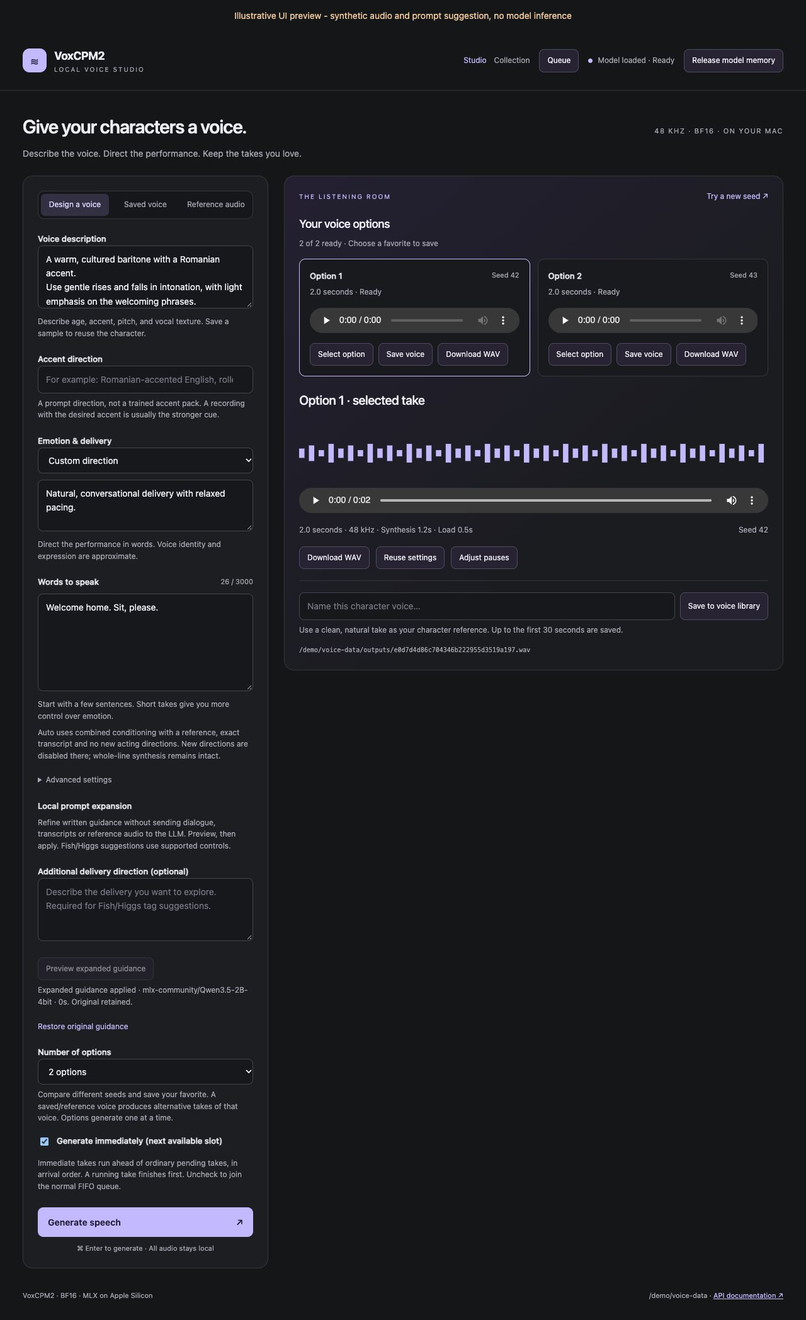
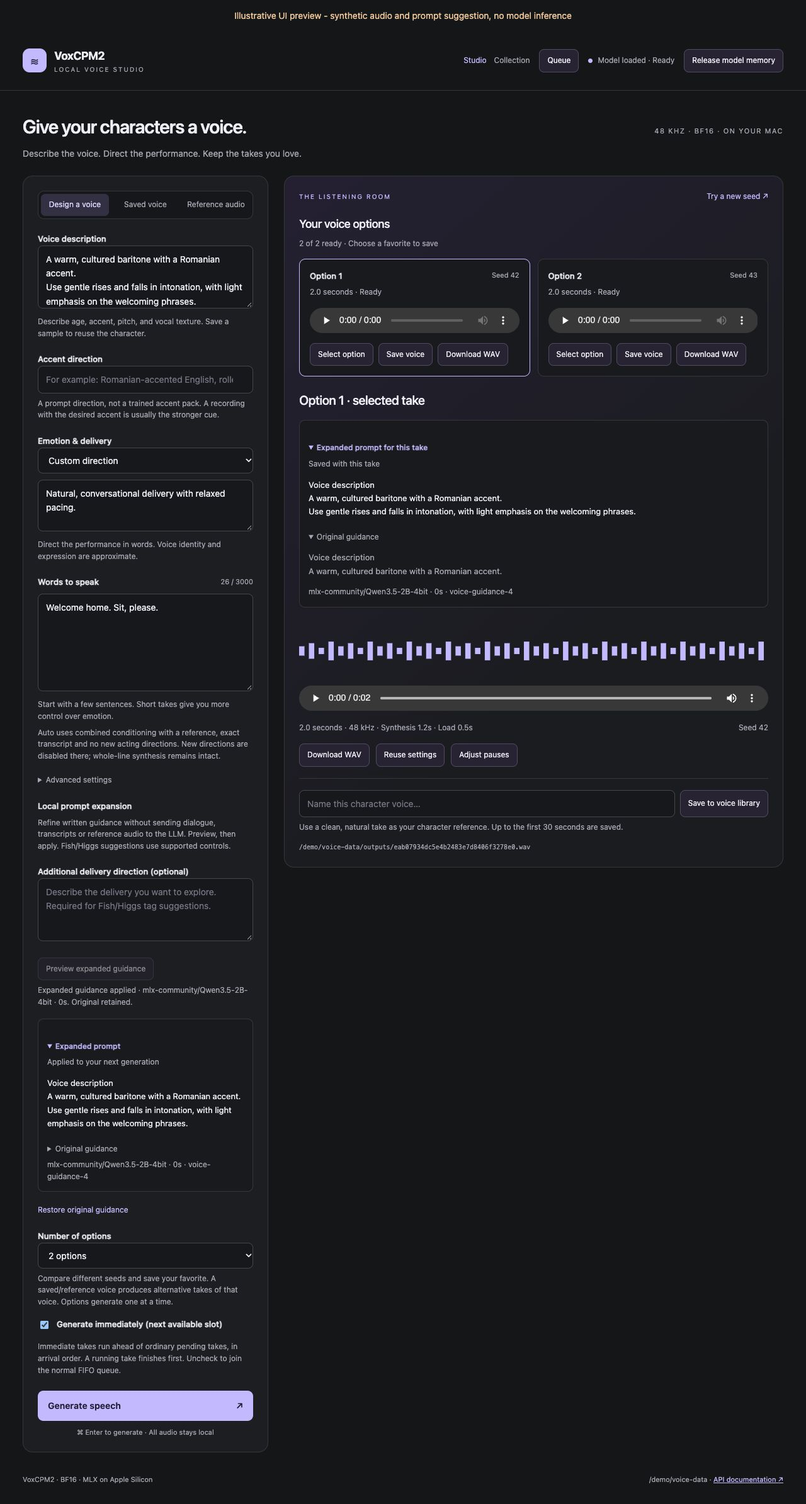
Keep expanded voice guidance visible in the form and saved takes

diff --git a/ui/index.html b/ui/index.html
@@ -22,6 +22,7 @@ html[data-page="collection"] #cards{max-height:none;grid-template-columns:repeat
 .queue-entry-content{min-width:0;overflow-wrap:anywhere}
 .queue-actions{margin:0;flex-direction:column;align-items:stretch;flex-wrap:nowrap}
 .queue-actions .secondary{width:100%;text-align:center;white-space:nowrap}
+.expansion-details{margin-top:16px;padding:14px;border:1px solid var(--line);border-radius:9px;background:#191a1d}.expansion-details>summary{cursor:pointer;color:var(--accent);font-weight:550}.expanded-guidance{white-space:pre-wrap;overflow-wrap:anywhere;font-size:13px;line-height:1.65}.expansion-content details{font-size:12px;color:var(--muted)}
 .candidate-grid{display:grid;grid-template-columns:repeat(auto-fit,minmax(240px,1fr));gap:12px;margin:15px 0 22px}.candidate-grid .card[data-selected=true]{border-color:var(--accent)}#candidate-results{margin-top:20px}#candidate-results h2{font-size:18px}#candidate-summary{margin-bottom:10px}
 @media(max-width:720px){.header-links{display:flex}.top-actions{flex-wrap:wrap}.queue-dialog{padding:18px}html[data-page="collection"] #cards{grid-template-columns:1fr}}
 </style>
@@ -40,11 +41,11 @@ html[data-page="collection"] #cards{max-height:none;grid-template-columns:repeat
 <div class="field"><label for="emotion-preset">Emotion & delivery</label><select id="emotion-preset"><option value="natural">Natural</option><option value="joy">Joy & excitement</option><option value="sadness">Sadness</option><option value="anger">Anger</option><option value="fear">Fear</option><option value="relief">Relief</option><option value="sarcasm">Dry sarcasm</option><option value="whisper">Intimate whisper</option><option value="custom">Custom direction</option></select><textarea class="field" id="emotion" aria-label="Performance direction" maxlength="1000" style="min-height:82px;margin-top:10px" placeholder="Quiet disappointment, speaking slowly, trying to hold back tears.">Natural, conversational delivery with relaxed pacing.</textarea><p class="hint" id="emotion-hint">Direct the performance in words. Delivery controls depend on the selected model and voice source.</p></div>
 <div class="field"><div class="label"><label for="text">Words to speak</label><span class="tiny" id="count">0 / 3000</span></div><textarea id="text" maxlength="3000" style="min-height:155px" required placeholder="Write a line for your character…">I thought you'd forgotten. But here you are, right when I needed you.</textarea><p class="hint">Start with a few sentences. Short takes give you more control over emotion.</p></div>
 <p id="performance-guidance" class="hint"></p><div class="field" id="backend-presets"></div><div class="field" id="performance-controls"></div><div class="field" id="backend-settings"></div><div class="field" id="index-emotion" hidden><label for="index-emotion-mode">Emotion source</label><select id="index-emotion-mode"><option value="follow">Follow recording</option><option value="audio">Another emotion recording</option><option value="vector">Named emotion mixture</option></select><p class="hint">Speaker identity still comes from your original voice reference. A separate same-speaker recording at blend 0.3–0.5 is an experimental starting point.</p><div id="index-audio-options" hidden><label for="emotion-reference">Emotion recording (optional)</label><input type="file" id="emotion-reference" accept="audio/*"><input type="hidden" id="emotion-reference-id"><p class="hint" id="emotion-reference-info"></p><button type="button" class="secondary" id="clear-emotion-reference">Clear emotion recording</button></div><div id="index-vector-options" hidden><label>Emotion mixture</label><div id="emotion-vector-fields"></div><p class="hint" id="emotion-vector-sum">Total 0.00 / 1</p><input type="hidden" id="emotion-vector"><p class="hint">Eight values: happy, angry, sad, afraid, disgusted, melancholic, surprised, calm. Each 0–1; total at most 1. Choose a recording or mixture.</p></div></div><p class="hint" id="inline-hint" hidden></p><div id="rendered-preview-field" hidden><label for="rendered-preview">Text sent to this model</label><pre id="rendered-preview" class="hint" style="white-space:pre-wrap;overflow-wrap:anywhere"></pre></div><details><summary>Advanced settings</summary><div class="field" id="pacing-settings"></div><button type="button" class="secondary" id="apply-recommended">Apply recommended defaults</button><p class="hint">Reset performance controls for this model while keeping your voice, dialogue and character description.</p><div class="two"><div><label for="seed">Seed</label><input type="number" id="seed" value="42" min="0" max="4294967295"></div><div id="steps-field"><label for="steps">Quality steps</label><input type="number" id="steps" value="10" min="1" max="30"></div></div><div class="two"><div id="guidance-field"><label for="guidance">Prompt guidance</label><input type="number" id="guidance" value="2" min="1" max="5" step=".1"></div><div id="max-tokens-field"><label for="max-tokens">Audio limit</label><select id="max-tokens"><option value="160">160 tokens · short test</option><option value="500">500 audio tokens</option><option value="1000" selected>1000 audio tokens</option><option value="2000">2000 audio tokens</option></select></div></div><p class="hint" id="settings-hint">10 steps is the quality default. The audio limit is a safety cap, not a requested duration. A matching seed alone does not lock a voice.</p><div class="two"><div id="temperature-field" hidden><label for="temperature">Temperature</label><input type="number" id="temperature" min="0" max="2" step=".05" value=".9"></div><div id="language-field" hidden><label for="language">Language</label><select id="language"><option>auto</option></select></div></div><div class="field"><label for="output-dir">Output folder (optional)</label><input id="output-dir" placeholder="Default output folder"><p class="hint">An absolute folder on this Mac. Leave blank for the configured default.</p></div></details>
-<section class="field" id="prompt-expansion-tools"><label>Local prompt expansion</label><p class="hint" id="prompt-expansion-hint">Start with WITH_LLM=1 to enable written voice guidance previews.</p><div class="field" id="expansion-guidance-field" hidden><label for="expansion-guidance">Additional delivery direction (optional)</label><textarea id="expansion-guidance" maxlength="1500" placeholder="Describe the delivery you want to explore. Required for Fish/Higgs tag suggestions."></textarea></div><button type="button" class="secondary field" id="expand-guidance" disabled>Preview expanded guidance</button><p class="hint" id="expansion-applied" hidden></p><button type="button" class="plain field" id="restore-guidance" hidden>Restore original guidance</button></section>
+<section class="field" id="prompt-expansion-tools"><label>Local prompt expansion</label><p class="hint" id="prompt-expansion-hint">Start with WITH_LLM=1 to enable written voice guidance previews.</p><div class="field" id="expansion-guidance-field" hidden><label for="expansion-guidance">Additional delivery direction (optional)</label><textarea id="expansion-guidance" maxlength="1500" placeholder="Describe the delivery you want to explore. Required for Fish/Higgs tag suggestions."></textarea></div><button type="button" class="secondary field" id="expand-guidance" disabled>Preview expanded guidance</button><p class="hint" id="expansion-applied" hidden></p><details id="applied-expansion-details" class="expansion-details" hidden><summary>Expanded prompt</summary><div class="expansion-content"></div></details><button type="button" class="plain field" id="restore-guidance" hidden>Restore original guidance</button></section>
 <div class="field"><label for="candidate-count">Number of options</label><select id="candidate-count"><option value="1">1 option</option><option value="2" selected>2 options</option><option value="3">3 options</option><option value="4">4 options</option><option value="5">5 options</option></select><p class="hint">Compare different seeds and save your favorite. A saved/reference voice produces alternative takes of that voice. Options generate one at a time.</p></div>
 <label style="display:flex;align-items:start;gap:10px;margin:16px 0"><input id="generate-immediately" type="checkbox" checked style="width:auto;margin-top:5px">Generate immediately (next available slot)</label><p class="hint">Immediate takes run ahead of ordinary pending takes, in arrival order. A running take finishes first. Uncheck to join the normal FIFO queue.</p>
 <button class="primary" id="generate" type="submit"><span>Generate speech</span><span aria-hidden="true">↗</span></button><p class="shortcut">⌘ Enter to generate · All audio stays local</p><p class="error" id="error" role="alert" hidden></p>
-</form><div><section class="panel output" aria-label="Generated audio"><div class="output-top"><span class="eyebrow">The listening room</span><button type="button" class="plain" id="new-seed">Try a new seed ↗</button></div><section id="candidate-results" hidden aria-labelledby="candidate-title"><h2 id="candidate-title">Your voice options</h2><p id="candidate-summary" class="hint" role="status"></p><div id="candidate-cards" class="candidate-grid"></div></section><div class="empty" id="empty"><div class="symbol" aria-hidden="true">▂▅▃▇▂▆▃</div><h2>Your next voice starts here.</h2><p>Generate a take, listen to the performance, then save the voice for your next scene.</p></div><div class="working" id="working" hidden><div class="spinner"></div><strong id="stage">Generating speech</strong><p id="elapsed">Starting…</p><p>The first take also loads the model from the SSD.</p></div><div id="result" hidden><h2 id="result-title">Your latest take</h2><p class="hint" id="direction-summary" hidden></p><canvas id="waveform" aria-label="Waveform of generated speech" role="img"></canvas><audio id="player" controls preload="metadata"></audio><div class="result-meta"><span id="metrics"></span><span id="result-seed"></span></div><p class="notice" id="truncated" hidden>The audio reached its length limit. Try a shorter passage or raise the audio limit.</p><div class="result-tools"><a id="download" class="secondary" download>Download WAV</a><button type="button" class="secondary" id="reuse">Reuse settings</button><button type="button" class="secondary" id="adjust-pauses">Adjust pauses</button></div><div class="save-row"><label for="voice-name" class="sr-only">Name this voice</label><input id="voice-name" maxlength="100" placeholder="Name this character voice…"><button type="button" class="secondary" id="save-voice">Save to voice library</button></div><p class="hint" id="save-hint">Use a clean, natural take as your character reference. Up to the first 30 seconds are saved.</p><p id="path" class="path"></p></div></section></div></div>
+</form><div><section class="panel output" aria-label="Generated audio"><div class="output-top"><span class="eyebrow">The listening room</span><button type="button" class="plain" id="new-seed">Try a new seed ↗</button></div><section id="candidate-results" hidden aria-labelledby="candidate-title"><h2 id="candidate-title">Your voice options</h2><p id="candidate-summary" class="hint" role="status"></p><div id="candidate-cards" class="candidate-grid"></div></section><div class="empty" id="empty"><div class="symbol" aria-hidden="true">▂▅▃▇▂▆▃</div><h2>Your next voice starts here.</h2><p>Generate a take, listen to the performance, then save the voice for your next scene.</p></div><div class="working" id="working" hidden><div class="spinner"></div><strong id="stage">Generating speech</strong><p id="elapsed">Starting…</p><p>The first take also loads the model from the SSD.</p></div><div id="result" hidden><h2 id="result-title">Your latest take</h2><p class="hint" id="direction-summary" hidden></p><details id="result-expansion-details" class="expansion-details" hidden><summary>Expanded prompt for this take</summary><div class="expansion-content"></div></details><canvas id="waveform" aria-label="Waveform of generated speech" role="img"></canvas><audio id="player" controls preload="metadata"></audio><div class="result-meta"><span id="metrics"></span><span id="result-seed"></span></div><p class="notice" id="truncated" hidden>The audio reached its length limit. Try a shorter passage or raise the audio limit.</p><div class="result-tools"><a id="download" class="secondary" download>Download WAV</a><button type="button" class="secondary" id="reuse">Reuse settings</button><button type="button" class="secondary" id="adjust-pauses">Adjust pauses</button></div><div class="save-row"><label for="voice-name" class="sr-only">Name this voice</label><input id="voice-name" maxlength="100" placeholder="Name this character voice…"><button type="button" class="secondary" id="save-voice">Save to voice library</button></div><p class="hint" id="save-hint">Use a clean, natural take as your character reference. Up to the first 30 seconds are saved.</p><p id="path" class="path"></p></div></section></div></div>
 <section class="panel library" id="voice-catalog"><div class="section-top"><h2>Your collection</h2><button type="button" class="secondary" id="upload-voice">Upload voice</button><div class="tabs" role="tablist" aria-label="Collection"><button type="button" role="tab" data-collection="history" aria-selected="true">History</button><button type="button" role="tab" data-collection="voices" aria-selected="false">Voice library</button></div></div><label class="sr-only" for="search">Search your collection</label><input class="search" id="search" type="search" placeholder="Search text, voice descriptions, or emotions…"><div class="library-filters" id="voice-filters" hidden><div><label for="tag-filter">Filter by tag</label><select id="tag-filter"><option value="">All tags</option></select></div><div><label for="voice-sort">Sort voices</label><select id="voice-sort"><option value="newest">Newest first</option><option value="updated">Recently edited</option><option value="name">Name A–Z</option></select></div></div><div class="field" style="margin:0 0 12px"><label for="page-size">Results per page</label><select id="page-size"><option>12</option><option selected>24</option><option>48</option><option>100</option></select></div><p class="catalog-count" id="catalog-count" hidden></p><p class="voice-notice" id="voice-notice" role="status" hidden></p><div id="cards" class="cards"></div><div class="pagination" id="voice-pagination" hidden><button type="button" class="secondary" id="voice-prev">Previous</button><span class="tiny" id="voice-page-label"></span><button type="button" class="secondary" id="voice-next">Next</button></div><p class="hint" id="collection-empty">Your generated takes will appear here.</p></section></main>
 <dialog id="queue-dialog" class="voice-editor queue-dialog" aria-labelledby="queue-title"><div class="section-top"><h2 id="queue-title">Generation queue</h2><div class="dialog-actions" style="margin:0"><button type="button" class="secondary" id="queue-clear">Clear pending</button><button type="button" class="secondary" id="close-queue" aria-label="Close queue">Close</button></div></div><p class="hint">Only the startup backend executes. Other backends wait until selected at startup. Removing pending takes preserves completed History and never cancels running speech.</p><div class="two"><div><label for="queue-status">Show</label><select id="queue-status"><option value="pending">Pending and running</option><option value="error">Failed</option><option value="done">Completed</option><option value="all">All entries</option></select></div><div><label for="queue-size">Entries per page</label><select id="queue-size"><option>12</option><option selected>24</option><option>100</option></select></div></div><p id="queue-count" class="hint" role="status"></p><div id="queue-entries" class="cards"></div><div class="pagination"><button type="button" class="secondary" id="queue-prev">Previous</button><span id="queue-page" class="tiny"></span><button type="button" class="secondary" id="queue-next">Next</button></div><p class="error" id="queue-error" role="alert" hidden></p></dialog>
 <dialog id="expansion-preview" class="voice-editor" aria-labelledby="expansion-title"><h2 id="expansion-title">Expanded voice guidance</h2><p class="hint">Review the suggestion before applying. The LLM does not receive dialogue, transcripts or reference audio. Accent/identity and delivery still require listening.</p><h3>Original guidance</h3><pre id="expansion-original" class="hint" style="white-space:pre-wrap;overflow-wrap:anywhere"></pre><h3>Suggested guidance / controls</h3><pre id="expansion-updates" class="hint" style="white-space:pre-wrap;overflow-wrap:anywhere"></pre><p id="expansion-model" class="hint"></p><div class="dialog-actions"><button type="button" class="secondary" id="cancel-expansion">Keep original</button><button type="button" class="primary" id="apply-expansion">Apply guidance</button></div></dialog>

diff --git a/ui/app.js b/ui/app.js
@@ -24,6 +24,7 @@ function updatePromptExpansion(){
  $('expand-guidance').textContent=enhancing?'Expanding guidance…':'Preview expanded guidance';
  $('prompt-expansion-hint').textContent=!enabled?'Disabled. Start with make serve WITH_LLM=1 to enable local guidance previews.':!supported?'This mode follows recorded performance or has no written instruction path. Choose a supported design/preset or flexible Vox reference mode.':'Refine written guidance without sending dialogue, transcripts or reference audio to the LLM. Preview, then apply. Fish/Higgs suggestions use supported controls.';
  $('expansion-applied').hidden=!appliedExpansion;$('restore-guidance').hidden=!appliedExpansion;
+ renderExpansion(appliedExpansion,'applied-expansion-details','Applied to your next generation');
  if(appliedExpansion)$('expansion-applied').textContent='Expanded guidance applied · '+appliedExpansion.llm.model+' · '+appliedExpansion.llm.seconds+'s. Original retained.';
 }
 function applyGuidanceValues(values){
@@ -40,6 +41,16 @@ function guidancePreview(values){
   if(key==='higgs')return Object.entries(value).filter(([,v])=>v).map(([name,v])=>name+': '+v).join('\n')||'No delivery control';
   return (key==='description'?'Voice description':'Delivery direction')+'\n'+value;
  }).join('\n\n');
+}
+function renderExpansion(record,id,caption){
+ const panel=$(id);panel.hidden=!record;
+ if(!record){delete panel.dataset.receipt;panel.querySelector('.expansion-content').replaceChildren();return}
+ if(panel.dataset.receipt===record.id)return;
+ panel.dataset.receipt=record.id;panel.open=true;
+ const content=panel.querySelector('.expansion-content'),original=el('details'),originalText=el('p',guidancePreview(record.original),'expanded-guidance');
+ original.append(el('summary','Original guidance'),originalText);
+ content.replaceChildren(el('p',caption,'hint'),el('p',guidancePreview(record.updates),'expanded-guidance'),original,
+  el('p',`${record.llm.model} · ${record.llm.seconds}s · ${record.llm.policy_version}`,'hint'));
 }
 $('expand-guidance').onclick=async()=>{
  if(enhancing)return;enhancing=true;controls();$('error').hidden=true;
@@ -235,7 +246,7 @@ $('search').oninput = () => {
   searchTimer=setTimeout(()=>loadCollection().catch(exc=>error(exc.message)),250);
 };
 function waveform(peaks){const canvas=$('waveform'),ratio=devicePixelRatio||1;canvas.width=canvas.clientWidth*ratio;canvas.height=110*ratio;const c=canvas.getContext('2d');c.clearRect(0,0,canvas.width,canvas.height);c.fillStyle='#c3b9ff';if(!peaks?.length)return;const step=canvas.width/peaks.length;peaks.forEach((peak,i)=>{const h=Math.max(2*ratio,peak*canvas.height*.9);c.fillRect(i*step,(canvas.height-h)/2,Math.max(1,step*.55),h)})}
-function showResult(row){if(collectionPage){location.href='/?artifact='+encodeURIComponent(row.id);return}latest=row;for(const [id,card] of candidateCards)card.element.dataset.selected=String(id===row.id);if(currentCandidates&&row.candidate_batch_id!==currentCandidates.id)$('candidate-results').hidden=true;$('result-title').textContent=row.candidate_index?'Option '+row.candidate_index+' · selected take':'Your latest take';const details=[row.preset_voice?'Preset '+row.preset_voice:'',row.clone_mode==='combined'?'Combined identity and recorded performance':row.clone_mode==='continuation'?'Continued reference performance':'',row.accent?'Accent direction: '+row.accent:'',row.steering_emotion?`Experimental ${row.steering_emotion} steering · ${row.steering_strength}`:''].filter(Boolean);$('direction-summary').textContent=details.join(' · ');$('direction-summary').hidden=!details.length;$('empty').hidden=true;$('working').hidden=true;$('result').hidden=false;$('player').src=row.audio_url;$('download').href=row.audio_url+'?download=true';$('metrics').textContent=`${row.duration.toFixed(1)} seconds · ${row.sample_rate/1000} kHz · ${row.transformation?`Pause edit ${row.transformation.processing_seconds}s · Original ${row.timing_scope?'process total':'synthesis'}`:row.timing_scope?'Total process':'Synthesis'} ${row.generation_seconds}s${row.cold_load&&Number.isFinite(row.load_seconds)?` · Load ${row.load_seconds}s`:``}`;$('result-seed').textContent=`Seed ${row.seed}`;$('path').textContent=row.path;$('truncated').hidden=!row.possibly_truncated;$('save-hint').textContent='Use a clean, natural take as your character reference. Up to the first 30 seconds are saved.';waveform(row.waveform)}
+function showResult(row){if(collectionPage){location.href='/?artifact='+encodeURIComponent(row.id);return}latest=row;renderExpansion(row.prompt_expansion,'result-expansion-details','Saved with this take');for(const [id,card] of candidateCards)card.element.dataset.selected=String(id===row.id);if(currentCandidates&&row.candidate_batch_id!==currentCandidates.id)$('candidate-results').hidden=true;$('result-title').textContent=row.candidate_index?'Option '+row.candidate_index+' · selected take':'Your latest take';const details=[row.preset_voice?'Preset '+row.preset_voice:'',row.clone_mode==='combined'?'Combined identity and recorded performance':row.clone_mode==='continuation'?'Continued reference performance':'',row.accent?'Accent direction: '+row.accent:'',row.steering_emotion?`Experimental ${row.steering_emotion} steering · ${row.steering_strength}`:''].filter(Boolean);$('direction-summary').textContent=details.join(' · ');$('direction-summary').hidden=!details.length;$('empty').hidden=true;$('working').hidden=true;$('result').hidden=false;$('player').src=row.audio_url;$('download').href=row.audio_url+'?download=true';$('metrics').textContent=`${row.duration.toFixed(1)} seconds · ${row.sample_rate/1000} kHz · ${row.transformation?`Pause edit ${row.transformation.processing_seconds}s · Original ${row.timing_scope?'process total':'synthesis'}`:row.timing_scope?'Total process':'Synthesis'} ${row.generation_seconds}s${row.cold_load&&Number.isFinite(row.load_seconds)?` · Load ${row.load_seconds}s`:``}`;$('result-seed').textContent=`Seed ${row.seed}`;$('path').textContent=row.path;$('truncated').hidden=!row.possibly_truncated;$('save-hint').textContent='Use a clean, natural take as your character reference. Up to the first 30 seconds are saved.';waveform(row.waveform)}
 let pauseSource=null,pauseSpans=[],pausePreviewEnd=null,pausePreviewTimer=null,pausePendingKey=null,pauseSaving=false;
 function pauseError(message){$('pause-error').textContent=message;$('pause-error').hidden=false}
 function renderPauseSpans(){
@@ -466,7 +477,7 @@ $('voice-prev').onclick = () => {catalogOffset = Math.max(0, catalogOffset - pag
 $('voice-next').onclick = () => {catalogOffset += pageSize; loadCollection().catch(exc => error(exc.message));};
 $('browse-voices').onclick=()=>{location.href='/collection?tab=voices'};
 $('page-size').onchange=()=>{pageSize=Number($('page-size').value);catalogOffset=0;loadCollection().catch(exc=>error(exc.message))};
-(async()=>{try{caps=await api('/api/capabilities');storageKey=caps.service;document.title=caps.name+' Voice Studio';$('brand-name').textContent=caps.name;$('model-badge').textContent=`${caps.sample_rate/1000} kHz · ${caps.quantization} · On your Mac`;$('model-footer').textContent=`${caps.name} · ${caps.quantization} · ${caps.limits.runtime||'MLX'} on Apple Silicon`;$('storage-footer').textContent=caps.storage;$('output-dir').placeholder=caps.output_dir;$('language').replaceChildren(...caps.languages.map(x=>new Option(x,x)));$('preset-voice').replaceChildren(...caps.presets.map(x=>new Option(`${x.name} · ${x.language}`,x.id)));for(const emotion of caps.extensions?.emotion_steering?.emotions||[])$('steering-emotion').append(new Option(emotion[0].toUpperCase()+emotion.slice(1),emotion));$('settings-hint').textContent=(caps.limits.max_tokens_fixed?'This upstream Chatterbox API uses a fixed 1000-token ceiling. ':caps.backend==='moss'?'The audio-frame ceiling can be raised by the upstream text-derived minimum. ':'The audio token limit is a safety cap. Reaching it can cut a take short. ')+(caps.limits.memory_note||'A matching seed alone does not lock a voice.');const notice=caps.models[caps.backend];if(notice?.notice){$('license-text').textContent=notice.notice;$('license-link').href=notice.license_url;$('license-notice').hidden=false}buildBackendSettings();buildPerformanceControls();updateCapabilities();await refresh();const saved=JSON.parse(localStorage.getItem(storageKey+'-form')||'null');if(saved)restore(saved);else setMode(caps.modes.design.available===false?'upload':'design');await health();await openPageSelection();const batch=localStorage.getItem(storageKey+'-candidates'),job=localStorage.getItem(storageKey+'-job');if(!watching&&!collectionPage){if(batch)watchCandidates(batch);else if(job)watch(job)}}catch(exc){error(exc.message)}setInterval(health,5000)})();
+(async()=>{try{caps=await api('/api/capabilities');storageKey=caps.service;document.title=caps.name+' Voice Studio';$('brand-name').textContent=caps.name;$('model-badge').textContent=`${caps.sample_rate/1000} kHz · ${caps.quantization} · On your Mac`;$('model-footer').textContent=`${caps.name} · ${caps.quantization} · ${caps.limits.runtime||'MLX'} on Apple Silicon`;$('storage-footer').textContent=caps.storage;$('output-dir').placeholder=caps.output_dir;$('language').replaceChildren(...caps.languages.map(x=>new Option(x,x)));$('preset-voice').replaceChildren(...caps.presets.map(x=>new Option(`${x.name} · ${x.language}`,x.id)));for(const emotion of caps.extensions?.emotion_steering?.emotions||[])$('steering-emotion').append(new Option(emotion[0].toUpperCase()+emotion.slice(1),emotion));$('settings-hint').textContent=(caps.limits.max_tokens_fixed?'This upstream Chatterbox API uses a fixed 1000-token ceiling. ':caps.backend==='moss'?'The audio-frame ceiling can be raised by the upstream text-derived minimum. ':'The audio token limit is a safety cap. Reaching it can cut a take short. ')+(caps.limits.memory_note||'A matching seed alone does not lock a voice.');const notice=caps.models[caps.backend];if(notice?.notice){$('license-text').textContent=notice.notice;$('license-link').href=notice.license_url;$('license-notice').hidden=false}buildBackendSettings();buildPerformanceControls();updateCapabilities();await refresh();const saved=JSON.parse(localStorage.getItem(storageKey+'-form')||'null');if(saved)restore(saved);else setMode(caps.modes.design.available===false?'upload':'design');await health();const pageSelected=await openPageSelection();const batch=localStorage.getItem(storageKey+'-candidates'),job=localStorage.getItem(storageKey+'-job');if(!watching&&!collectionPage&&!pageSelected){if(batch)watchCandidates(batch);else if(job)watch(job)}}catch(exc){error(exc.message)}setInterval(health,5000)})();
 
 function buildBackendSettings(){
  $('backend-settings').replaceChildren();
@@ -608,9 +619,10 @@ $('open-queue').onclick=()=>{$('queue-error').hidden=true;$('queue-dialog').show
 $('close-queue').onclick=()=>$('queue-dialog').close();
 async function openPageSelection(){
  const params=new URLSearchParams(location.search);
- if(params.get('candidates')&&!collectionPage){watchCandidates(params.get('candidates'));return}
+ if(params.get('candidates')&&!collectionPage){watchCandidates(params.get('candidates'));return true}
  if(collectionPage){if(params.get('tab')==='voices')setCollection('voices');return}
- if(/^[a-f0-9]{32}$/.test(params.get('voice')||'')){const row=await api('/api/voices/'+params.get('voice'));chooseVoice(row,false);}
- else if(/^[a-f0-9]{32}$/.test(params.get('artifact')||params.get('reuse')||'')){const row=await api('/api/artifacts/'+(params.get('artifact')||params.get('reuse')));if(params.has('reuse'))restore(row);showResult(row);}
- else if(/^[a-f0-9]{32}$/.test(params.get('job')||''))watch(params.get('job'));
+ if(/^[a-f0-9]{32}$/.test(params.get('voice')||'')){const row=await api('/api/voices/'+params.get('voice'));chooseVoice(row,false);return true;}
+ else if(/^[a-f0-9]{32}$/.test(params.get('artifact')||params.get('reuse')||'')){const row=await api('/api/artifacts/'+(params.get('artifact')||params.get('reuse')));if(params.has('reuse'))restore(row);showResult(row);return true;}
+ else if(/^[a-f0-9]{32}$/.test(params.get('job')||'')){watch(params.get('job'));return true;}
+ return false;
 }

diff --git a/test_prompt_expansion.py b/test_prompt_expansion.py
@@ -144,3 +144,21 @@ class ExpansionTests(unittest.TestCase):
             self.assertEqual(assets.check_assets(),folder)
             (folder/'model.safetensors').write_bytes(b'x')
             with self.assertRaisesRegex(RuntimeError,'weight size'):assets.check_assets()
+    def test_first_download_then_repeated_setup_reuses_verified_llm(self):
+        import prompt_assets as assets
+        from unittest.mock import Mock
+        folder=self.f.root/'new-llm';weight_bytes=b'fixture weights'
+        def snapshot(**kwargs):
+            self.assertEqual(kwargs['repo_id'],assets.REPOSITORY)
+            self.assertEqual(kwargs['revision'],assets.REVISION)
+            for name in kwargs['allow_patterns']:(folder/name).write_bytes(weight_bytes if name=='model.safetensors' else b'{}')
+        download=Mock(side_effect=snapshot)
+        with patch.object(assets,'weights_directory',return_value=folder),patch.object(assets,'WEIGHTS_BYTES',len(weight_bytes)),\
+             patch.object(assets,'WEIGHTS_SHA256',hashlib.sha256(weight_bytes).hexdigest()),\
+             patch.dict('sys.modules',{'huggingface_hub':SimpleNamespace(snapshot_download=download)}),patch.dict(os.environ):
+            assets.download()
+            timestamp=(folder/'model.safetensors').stat().st_mtime_ns
+            assets.download()
+            self.assertEqual(download.call_count,1)
+            self.assertEqual((folder/'model.safetensors').stat().st_mtime_ns,timestamp)
+            self.assertEqual(assets.check_assets(full=True),folder)

diff --git a/server.py b/server.py
@@ -35,6 +35,7 @@ async def lifespan(app):
         check_assets();check_runtime()
     from license_notices import warn_at_startup
     warn_at_startup(PROFILE['backend'])
+    print('Local voice prompt expansion: '+('enabled · Qwen3.5-2B 4-bit' if app.state.llm_enabled else 'disabled · use make serve WITH_LLM=1 to enable'),flush=True)
     from data_owner import own_data_directory
     with own_data_directory(ROOT) as owner:
         manager.data_owner = owner

diff --git a/README.md b/README.md
@@ -14,7 +14,7 @@ Full-page screenshots of the separate Generate and Collection pages, plus the pa
 
 Choose or upload a saved voice, enter the line, and choose **1–5 options** (default **2**). Each option has its own player, download and **Save voice** action. Designed voices explore different seeds; saved/reference voices produce alternative takes of the selected voice.
 
-![Full Generate page with two illustrative voice options, independent playback and saving, and the 1–5 option selector](docs/images/studio-page.jpg)
+![Full Generate page with two illustrative voice options, visible expanded guidance for the form and selected take, and the 1–5 option selector](docs/images/studio-page.jpg)
 
 ### Collection
 
@@ -85,7 +85,13 @@ make start MODEL=voxcpm2
 
 Start with `make serve WITH_LLM=1` (or `make start WITH_LLM=1`) to enable **Preview expanded guidance**. Plain serving keeps it disabled. First setup installs the isolated `.venv-enhancer` and pinned shared Qwen3.5-2B 4-bit assets; existing installations can run `make setup-llm`. This runtime requires Python 3.14 independently of the selected speech backend (`LLM_PYTHON=/path/to/python3.14`). Speech environments are not upgraded by this setup.
 
-Write a description/delivery direction, preview the suggestion, then choose **Apply guidance** or **Keep original**. **Restore original guidance** undoes an applied suggestion. Spoken dialogue and reference transcripts stay verbatim and are excluded from the LLM input. It receives written guidance only and does not listen to recordings. Review suggestions for unwanted nuances, repetition, accent and identity changes; expansion is experimental and does not guarantee better audio.
+```sh
+make setup                 # Downloads the LLM only when its verified assets are missing
+make serve WITH_LLM=1       # Enable local voice prompt expansion
+make serve WITH_LLM=0       # Disable it (also the default for plain make serve)
+```
+
+Write a description/delivery direction, preview the suggestion, then choose **Apply guidance** or **Keep original**. The applied **Expanded prompt** stays visible in the form, with the original available underneath. Each generated or reopened take shows its own **Expanded prompt for this take**, so the saved instructions remain inspectable after a reload or when browsing History. **Restore original guidance** undoes an applied suggestion. Spoken dialogue and reference transcripts stay verbatim and are excluded from the LLM input. It receives written guidance only and does not listen to recordings. Review suggestions for unwanted nuances, repetition, accent and identity changes; expansion is experimental and does not guarantee better audio.
 
 Supported paths are Vox design or explicitly flexible reference delivery, Qwen VoiceDesign/CustomVoice, MOSS design, Fish short delivery tags and Higgs one existing catalog control. Vox recorded-performance cloning, Qwen Base reference, Chatterbox Original and the installed Index adapter have no compatible prose path and reject previews before loading the LLM. Fish/Higgs require a written direction and empty existing delivery controls. Their native rendered text remains inspectable under Advanced settings. Existing sampler, voice, accent and pause controls remain authoritative.
 

diff --git a/skill/local-voice-studio/SKILL.md b/skill/local-voice-studio/SKILL.md
@@ -97,6 +97,6 @@ Check health.prompt_expansion.enabled and capabilities.limits.prompt_expansion f
 
 Use POST /api/prompts/expand with generation plus optional written guidance. The LLM sees only description/delivery/accent constraints, never dialogue, reference transcript/audio, IDs or paths. Resolve original clone mode first. Supported: Vox design/flexible reference, Qwen VoiceDesign/CustomVoice, MOSS design, Fish short tags, Higgs one existing catalog control. Unsupported: Vox combined/continuation, Qwen Base, Chatterbox Original, current Index adapter. Fish/Higgs require a written direction and no existing/manual delivery tags. Never silently change a clone mode or translate prose to numeric emotion/CFG controls.
 
-Inspect original and updates; suggestions may repeat guidance or invent a nuance despite valid JSON. Apply deliberately by merging updates into the same request and setting prompt_expansion_id to the returned id. Never alter text/ref_text or claim that expansion guarantees better audio/accent. The UI offers preview/apply/keep original/restore original. Original prose is preserved then appended; fields, controls, language and voice context remain validated. Restore receipt.original and omit the ID to undo. Edited context/applied fields require a new preview or removed ID.
+Inspect original and updates; suggestions may repeat guidance or invent a nuance despite valid JSON. Apply deliberately by merging updates into the same request and setting prompt_expansion_id to the returned id. Never alter text/ref_text or claim that expansion guarantees better audio/accent. The UI offers preview/apply/keep original/restore original. Applied guidance remains visible in the form, and a selected take shows its saved expanded prompt independently of current form edits. Reopened History takes retain this view. WITH_LLM=0 is the startup default; WITH_LLM=1 enables previews and startup prints the mode. Original prose is preserved then appended; fields, controls, language and voice context remain validated. Restore receipt.original and omit the ID to undo. Edited context/applied fields require a new preview or removed ID.
 
 Preview creates no speech job, returns409 when busy and422 for unsupported/invalid/failed output. It serializes under the actual shared GPU lease, unloads resident speech weights and uses a short-lived offline LLM child. No retry/fallback/truncation. Queue admission embeds immutable receipt provenance; candidates, restarts and retries reuse it without another LLM call, including with plain serving. Private receipts under DATA_DIR/prompt-expansions must be backed up with media/state. Consult API.md and docs/voice-prompt-expansion.md for exact bounds, research sources and measured limits. Leave all maintenance/test services stopped.

diff --git a/API.md b/API.md
@@ -243,7 +243,7 @@ The studio is at `/`; Collection has its own `/collection` page for History and 
 
 ## Voice guidance preview and application
 
-`GET /health` exposes `prompt_expansion.enabled`; `GET /api/capabilities` exposes the supported mode matrix and policy version under `limits.prompt_expansion`. Enable previews at startup with `make serve WITH_LLM=1`; plain serving disables new previews. A new health stage `expanding` reports `busy:true`. Requests remain local.
+`GET /health` exposes `prompt_expansion.enabled`; `GET /api/capabilities` exposes the supported mode matrix and policy version under `limits.prompt_expansion`. Enable previews at startup with `make serve WITH_LLM=1`; plain serving disables new previews. A new health stage `expanding` reports `busy:true`. Requests remain local. `WITH_LLM=0` (the default) disables new previews; startup prints the selected LLM mode. First `make setup` downloads verified missing assets, while repeated setup reuses the existing checkpoint. The UI retains the applied expanded guidance in the form and displays saved expansion provenance with each selected take, including reopened History entries.
 
 `POST /api/prompts/expand` accepts a strict object with `generation` (the existing Generation request) and optional `guidance` (up to1500 characters). Example for Vox design:
 
